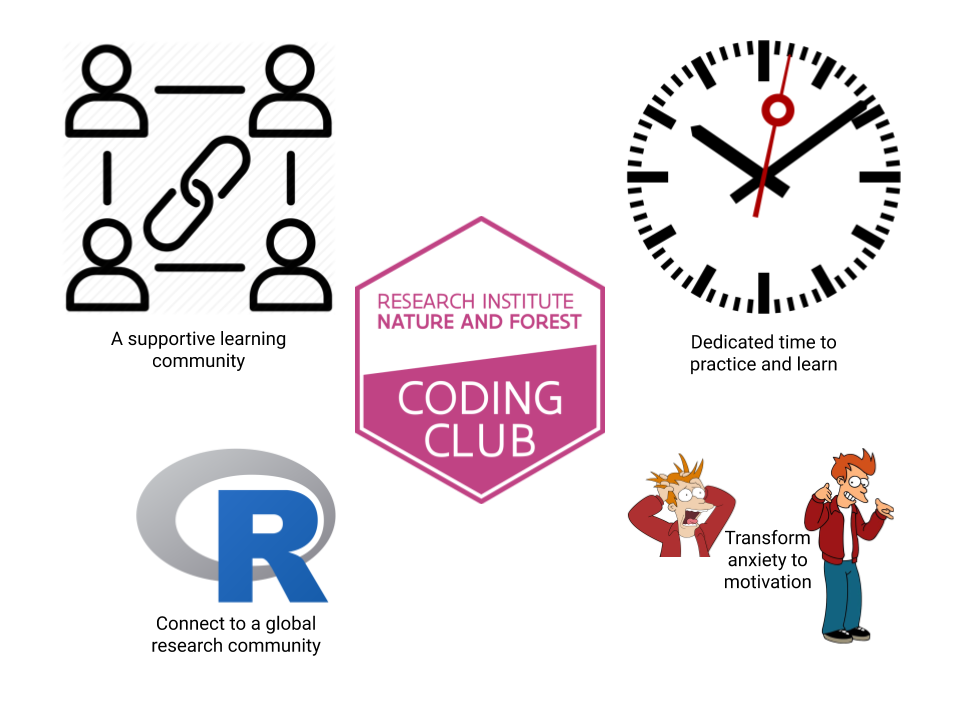
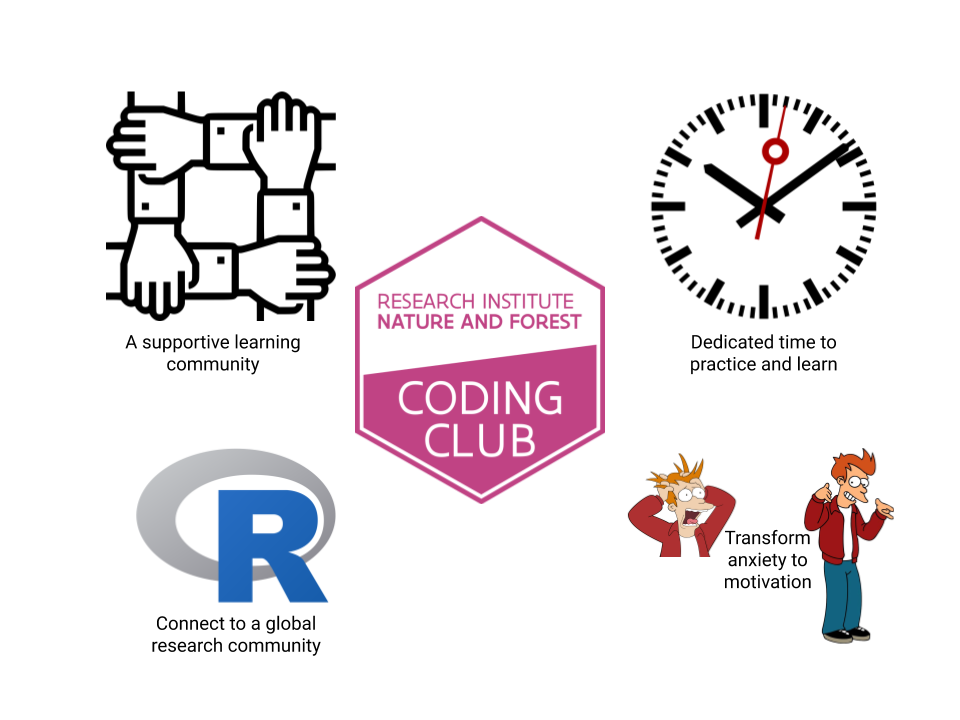
Improve picture pillar and place text in next slides Leiden

Changed region(s): [[0.0625, 0.0611, 0.375, 0.5194], [0.6562, 0.0306, 0.9375, 0.4583]]

diff --git a/docs/sessions/20191022_codingclub.html b/docs/sessions/20191022_codingclub.html
@@ -90,10 +90,12 @@ class: center, middle
 
 ![:scale 70%]({{ site.baseurl}}/assets/images/20191022_history_sessions_codingclub.png)
 <br>
+<br />
+<br />
 [Coding club sessions info](https://inbo.github.io/coding-club/sessions/index.html)
 
 ---
-class: center, left
+class: left, middle
 
 ## So, practically...
 
@@ -102,7 +104,7 @@ The coding club is held monthly on alternate Tuesday and Thursday, from 10 a.m. 
 ![:scale 70%]({{ site.baseurl}}/assets/images/20191022_building_and_room.png)
 
 ---
-class: center, left
+class: left, middle
 
 ## So, practically...
 
